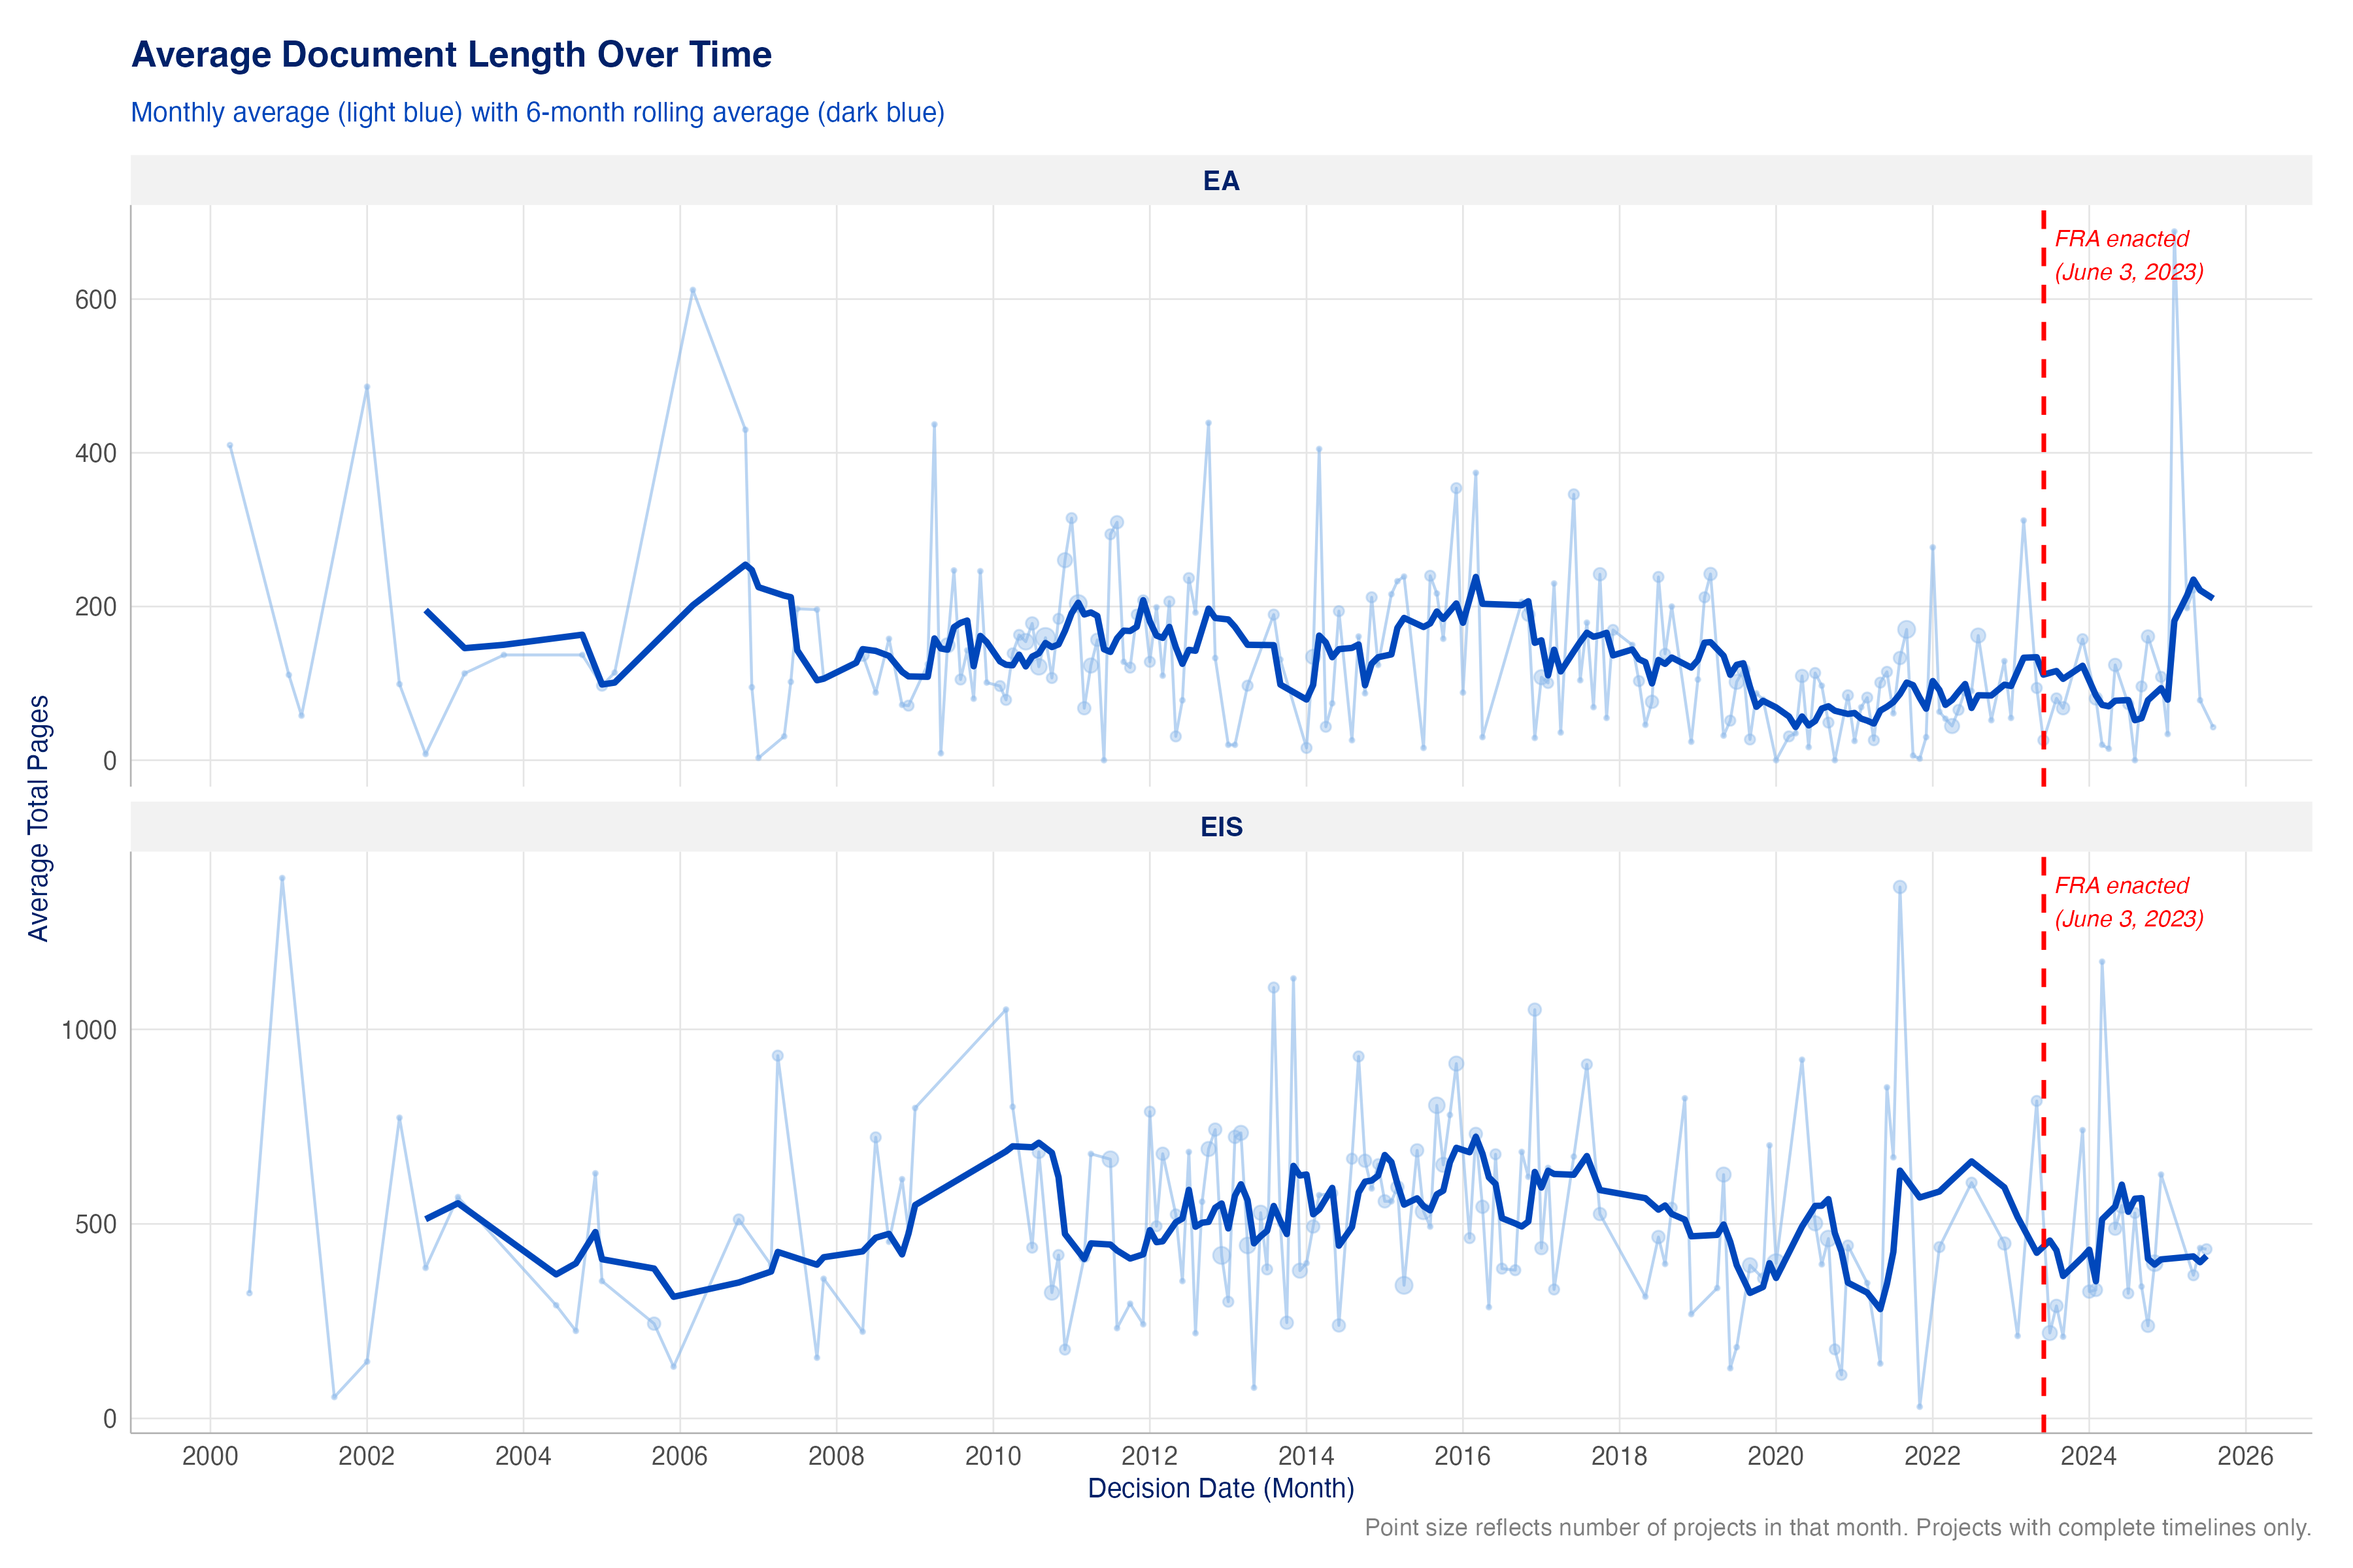
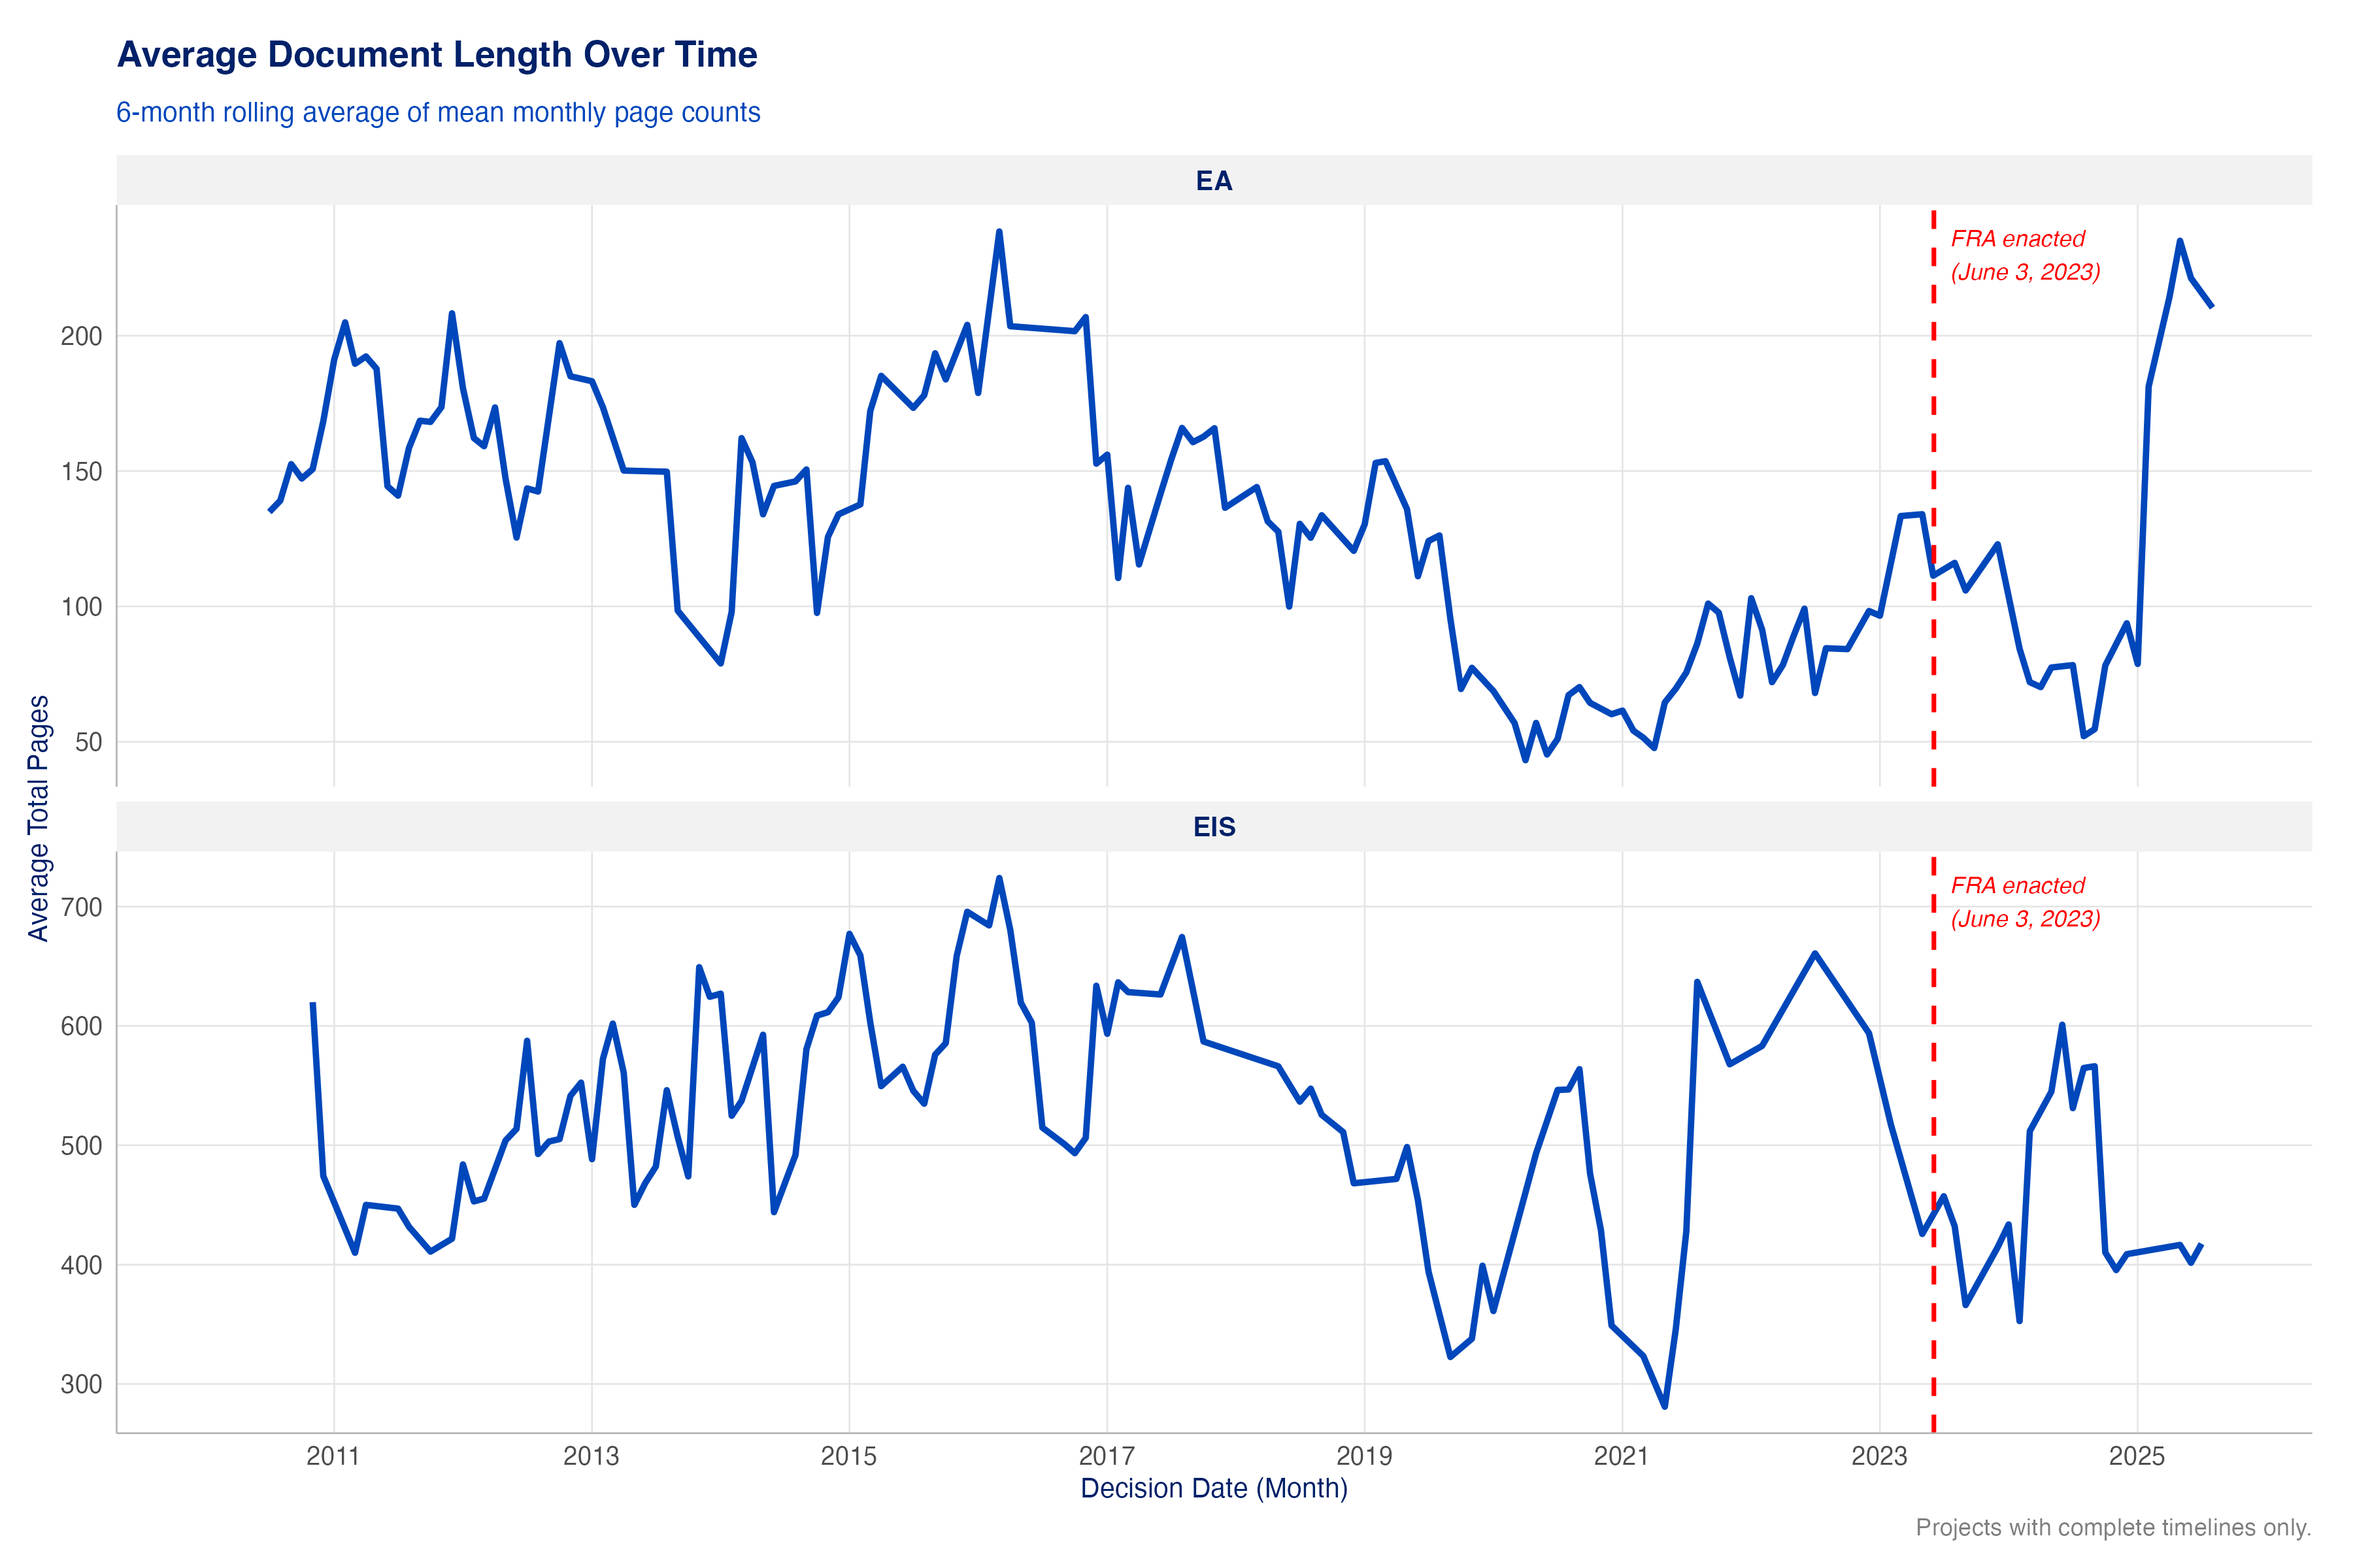
update D5 figures for report

diff --git a/notes/status/05_deliverable05.md b/notes/status/05_deliverable05.md
@@ -1,0 +1,105 @@
+# Deliverable 5 Status: Pages Over Time / FRA Analysis
+
+**Date**: 2026-02-18
+**Status**: Scripts created, ready for initial run
+**Due**: Feb 20, 2026
+
+---
+
+## Overview
+
+Deliverable 5 analyzes whether NEPA document length (number of pages) decreased after the Fiscal Responsibility Act of 2023 (FRA), which set page limit requirements for environmental assessments and environmental impact statements. The analysis is limited to clean energy EA and EIS projects with final documents and complete timelines.
+
+**Key question**: Is document length (total pages) lower after 6/3/2023 (FRA enactment)?
+
+---
+
+## Scope & Inclusion Criteria
+
+- **Process types**: EA and EIS only (CE excluded; FRA page limits don't apply to CEs)
+- **Document types**: Final Environmental Assessments (EA) and Final Environmental Impact Statements (FEIS) only (no drafts, no decision docs)
+- **Timeline requirement**: Only projects with both non-missing initiation AND decision dates
+- **FRA classification**: Projects with decision date >= June 3, 2023 are classified as "Post-FRA" (they should comply even if initiated before FRA)
+- **Deduplication**: If multiple final documents per project, prefer `main_document == "YES"`, then highest `total_pages`
+
+---
+
+## Data Pipeline
+
+### Inputs
+
+| File | Description |
+|------|-------------|
+| `data/analysis/projects_combined.parquet` | All projects (filtered to clean energy EA/EIS) |
+| `data/analysis/projects_timeline_bert_ea_llm.parquet` | LLM-adjudicated timeline dates for EA projects |
+| `data/analysis/projects_timeline_bert_eis_llm.parquet` | LLM-adjudicated timeline dates for EIS projects |
+| `data/analysis/documents_combined.parquet` | All documents (filtered to FEIS and final EA, `total_pages` column) |
+
+### Merge Logic
+
+1. Start with clean energy EA + EIS projects from `projects_combined`
+2. Inner join with combined EA + EIS timeline data (LLM dates)
+3. Inner join with deduplicated final documents (one per project)
+4. Filter to complete timelines (non-missing initiation + decision)
+5. Add FRA period classification and time variables
+
+### Key Output Objects (in R session)
+
+- `pages_data` — full merged dataset (projects + timeline + documents)
+- `pages_analysis` — analysis subset with complete timelines + FRA classification
+- `coverage` — project counts at each filter step
+
+---
+
+## Scripts
+
+| Script | Purpose |
+|--------|---------|
+| `code/deliverable05/00_setup.R` | Load libraries, merge data, define theme/helpers |
+| `code/deliverable05/01_pages.R` | Generate 5 figures + summary tables |
+
+### Figures Produced
+
+| # | File | Description |
+|---|------|-------------|
+| 1 | `05_coverage.png` | Horizontal bar chart: project counts at each inclusion filter step, by EA/EIS |
+| 2 | `05_pages_over_time.png` | 6-month rolling average of page counts over time, with red FRA line, faceted by EA/EIS |
+| 3 | `05_pages_pre_post_fra.png` | Bar chart: mean pages Pre vs Post FRA, with median diamonds, faceted by process type |
+| 4 | `05_pages_distribution_boxplot.png` | Violin + box plot of page distributions Pre vs Post FRA, with median labels |
+| 5 | `05_pages_scatter.png` | Project-level scatter (decision date vs pages) with LOESS trend + 95% CI, FRA line |
+
+### Tables Produced
+
+| File | Description |
+|------|-------------|
+| `05_pages_summary.csv` | Descriptive stats (mean, median, sd, min, max, IQR) by process type and FRA period |
+| `05_coverage.csv` | Project counts at each filter step |
+
+---
+
+## Design Decisions
+
+1. **LLM dates for both EA and EIS**: Follows D3 harmonization pattern — uses `llm_initiation_date` and `llm_decision_date` from the LLM-adjudicated timeline files
+2. **Decision date for FRA classification**: If `timeline_decision_date >= 2023-06-03`, the project is Post-FRA. Projects in-progress when FRA was enacted should comply
+3. **Rolling average (not monthly raw)**: Monthly averages are noisy due to small N in some months. The 6-month rolling average smooths this out
+4. **Time range 2010-2025**: Focuses figures on the most relevant recent period
+5. **P99 cap on distribution figure**: Extreme outliers distort violin/box plots; y-axis capped at 99th percentile
+
+---
+
+## Known Considerations
+
+- **Post-FRA sample size**: Only ~2.5 years of post-FRA data (June 2023 to present). Small N limits statistical power
+- **Page count = main document only**: `total_pages` reflects the single final document, not appendices or supplementary volumes. FRA limits target the main document, so this is appropriate
+- **Confounders**: Changes in page counts may reflect project complexity, agency mix, or technology shifts — not just FRA compliance. Analysis is descriptive, not causal
+- **Zero-page documents**: Some may exist as data quality artifacts; worth inspecting
+
+---
+
+## Next Steps
+
+- [ ] Run `01_pages.R` and inspect figures
+- [ ] Review coverage numbers to assess analysis representativeness
+- [ ] Check for zero-page or extreme outlier documents that may need filtering
+- [ ] Create `reports/deliverable05.qmd` incorporating the figures
+- [ ] Consider adding statistical tests (e.g., Wilcoxon) for Pre vs Post FRA comparison
